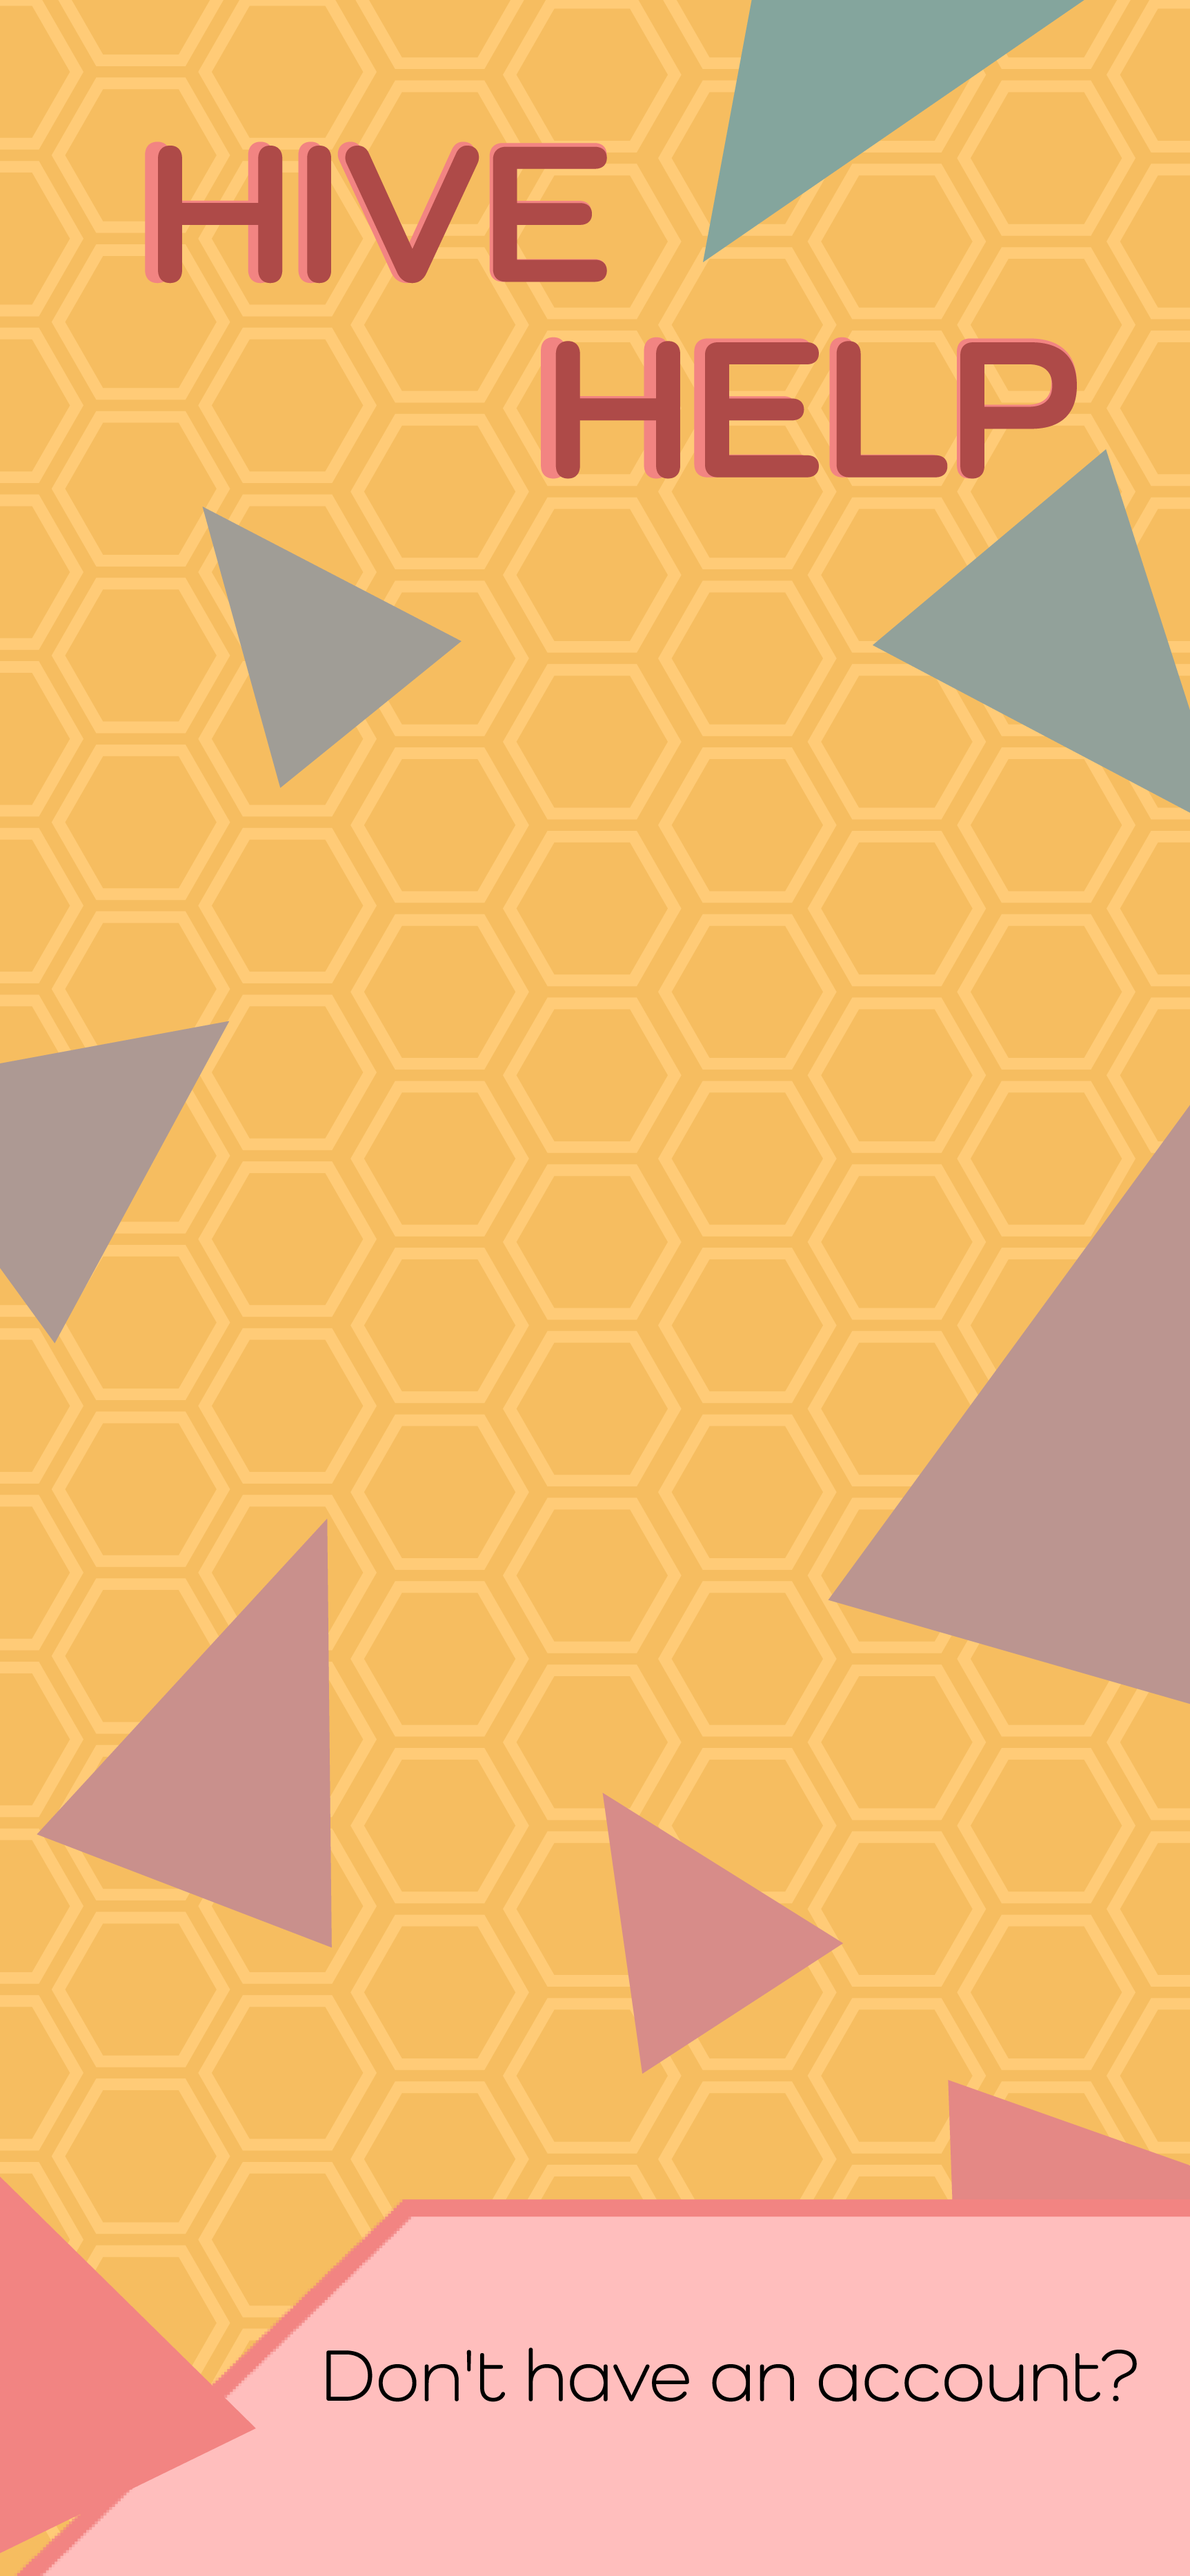
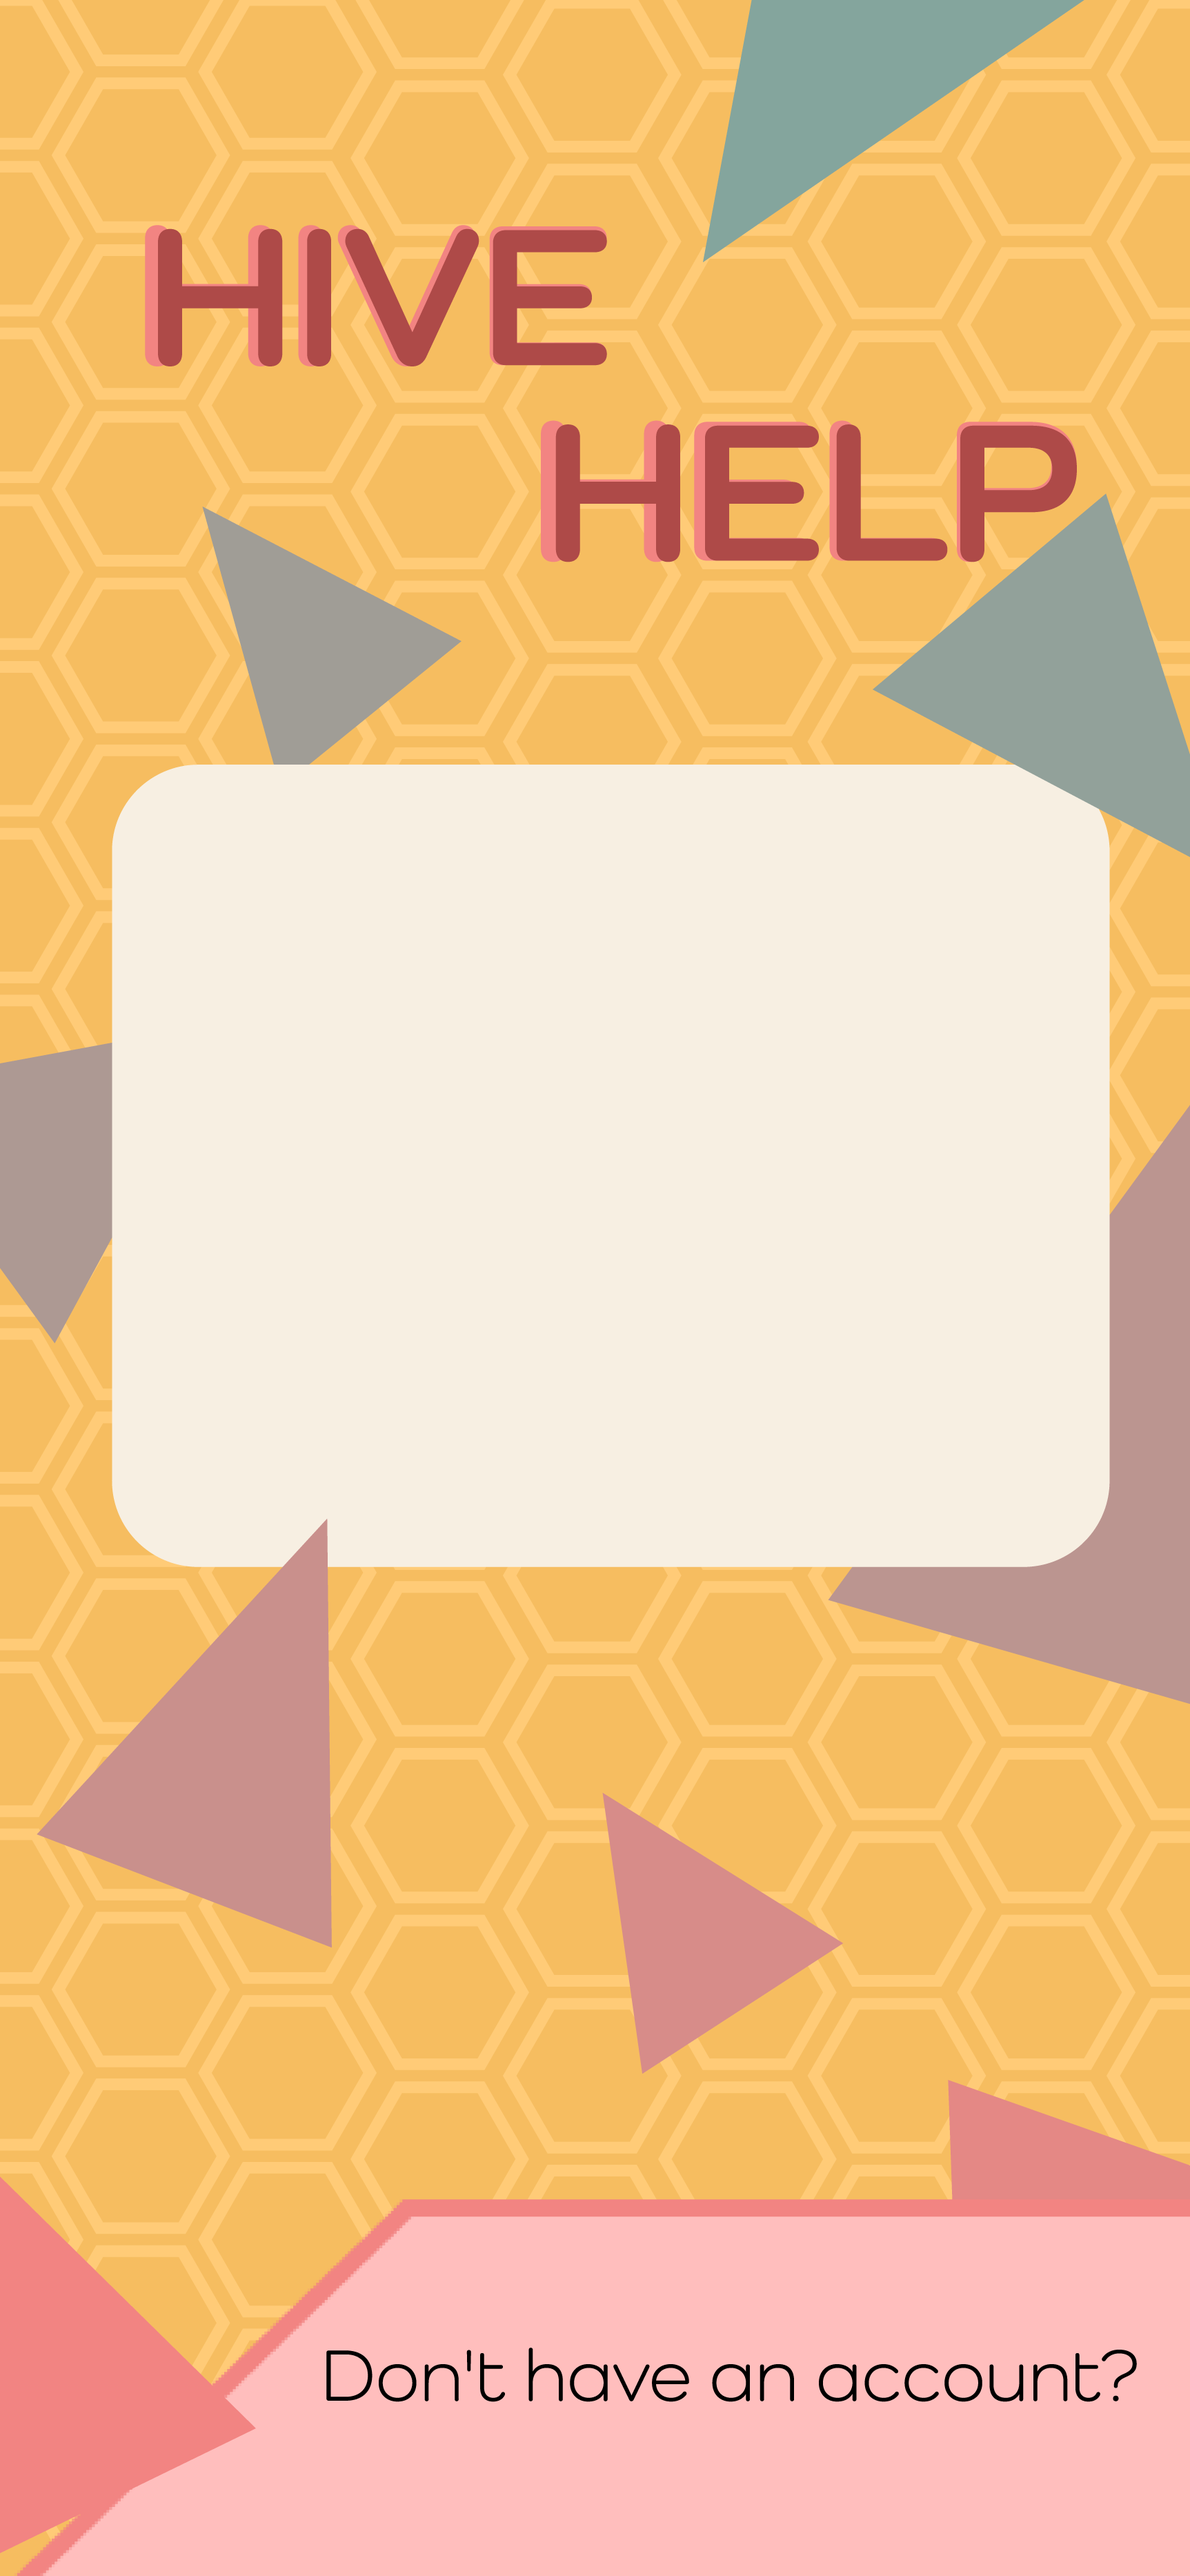
Sign In edit

diff --git a/hivehelp/components/SignInScreen.js b/hivehelp/components/SignInScreen.js
@@ -17,24 +17,28 @@ const SignInScreen = () => {
     <View style={styles.pageContainer}>
         <Image source={ExampleImage} style={styles.image} />
         <View style={styles.container}>
-          <Text>Name</Text>
+          <Text>Sign In</Text>
           <TextInput style={styles.input} placeholder="Enter Email"/>
           <TextInput style={styles.input} placeholder="Password"/>
           <View style={styles.textContainer}>
               <View style={[styles.column]}>
-                 <Text>Forgot Password?</Text>
+              <TouchableOpacity onPress={goToHomePage}>
+                    <Text>Forgot</Text>
+                    <Text>Password</Text>
+                  </TouchableOpacity>
               </View>
               <View style={[styles.column, {alignItems: 'flex-end'}]}>
-                  <TouchableOpacity onPress={goToHomePage}>
-                    <Text>Sign In</Text>
+                  <TouchableOpacity style ={styles.button} onPress={goToHomePage}>
+                    <Text>   Sign In</Text>
                   </TouchableOpacity>
               </View>
             </View>
         </View>
-  </View>
-  <TouchableOpacity style= {{alignItems: 'flex-end'}} onPress={goToCreateAccount}>
+        <TouchableOpacity style= {[{alignItems: 'flex-end'}, {paddingBottom: 20}, {paddingRight:100}]} onPress={goToCreateAccount}>
                     <Text>Click Here</Text>
   </TouchableOpacity>
+  </View>
+
   </View>
   )
 }
@@ -57,9 +61,17 @@ const styles = StyleSheet.create({
   image: {
     flex: 1,
     width: width, // Set the width to the width of the screen
-    height: height, // Set the height to the height of the screen
+    height: height + 20, // Set the height to the height of the screen
     resizeMode: 'cover',
     position: 'absolute'
+  },
+  button: {
+    height: 40,
+    width: 100,
+    borderRadius: 10,
+    backgroundColor: 'white',
+    borderWidth: 1,
+    padding: 10
   },
   input: {
     height: 40,
@@ -67,7 +79,6 @@ const styles = StyleSheet.create({
     margin: 12,
     borderRadius: 10,
     backgroundColor: 'white',
-    borderWidth: 1,
     padding: 10
   },
   textContainer: {
